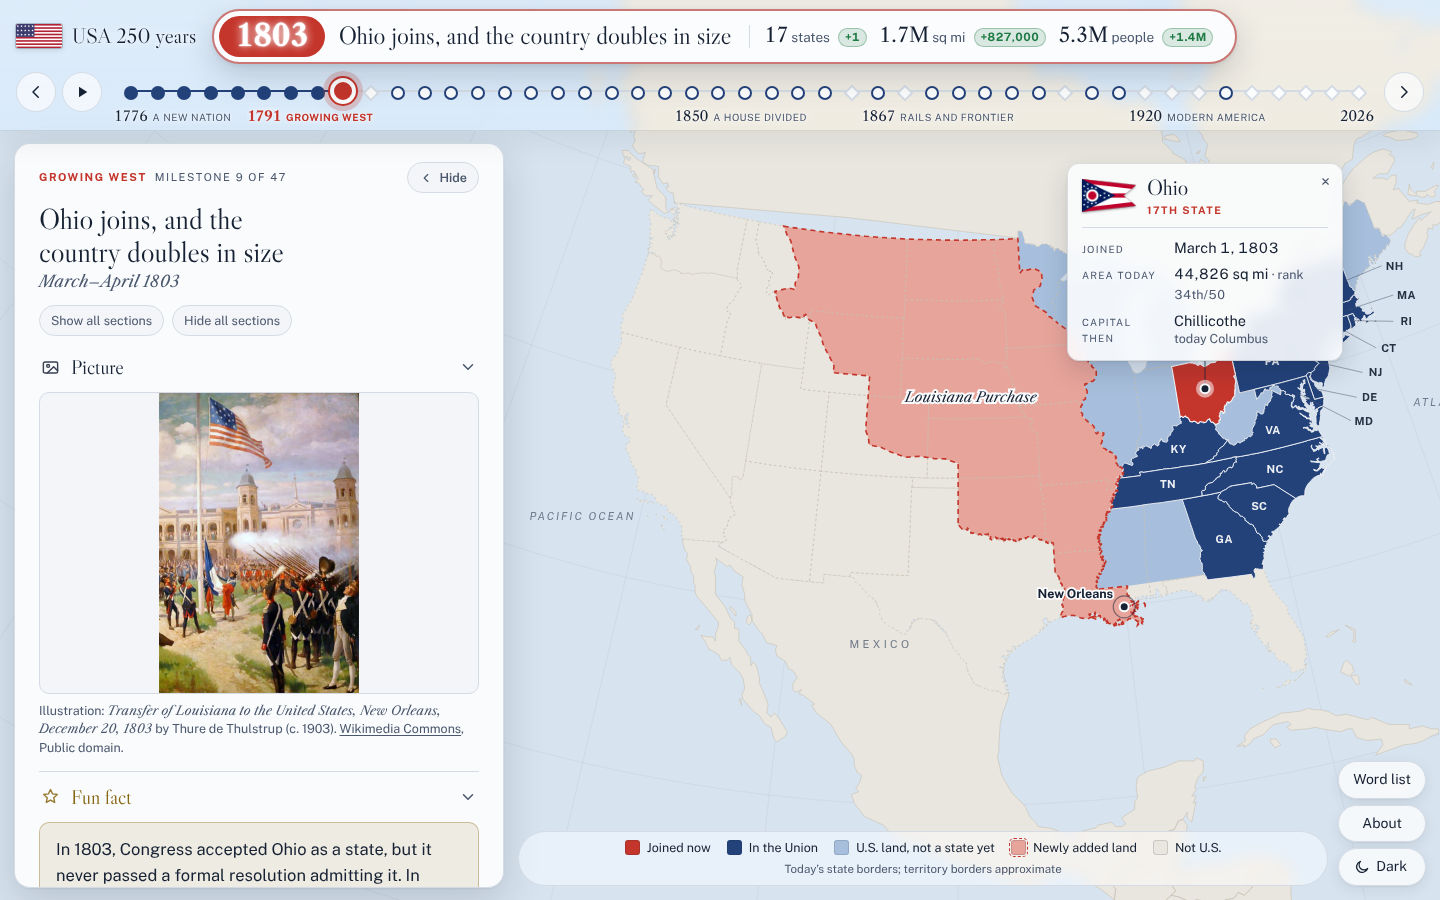
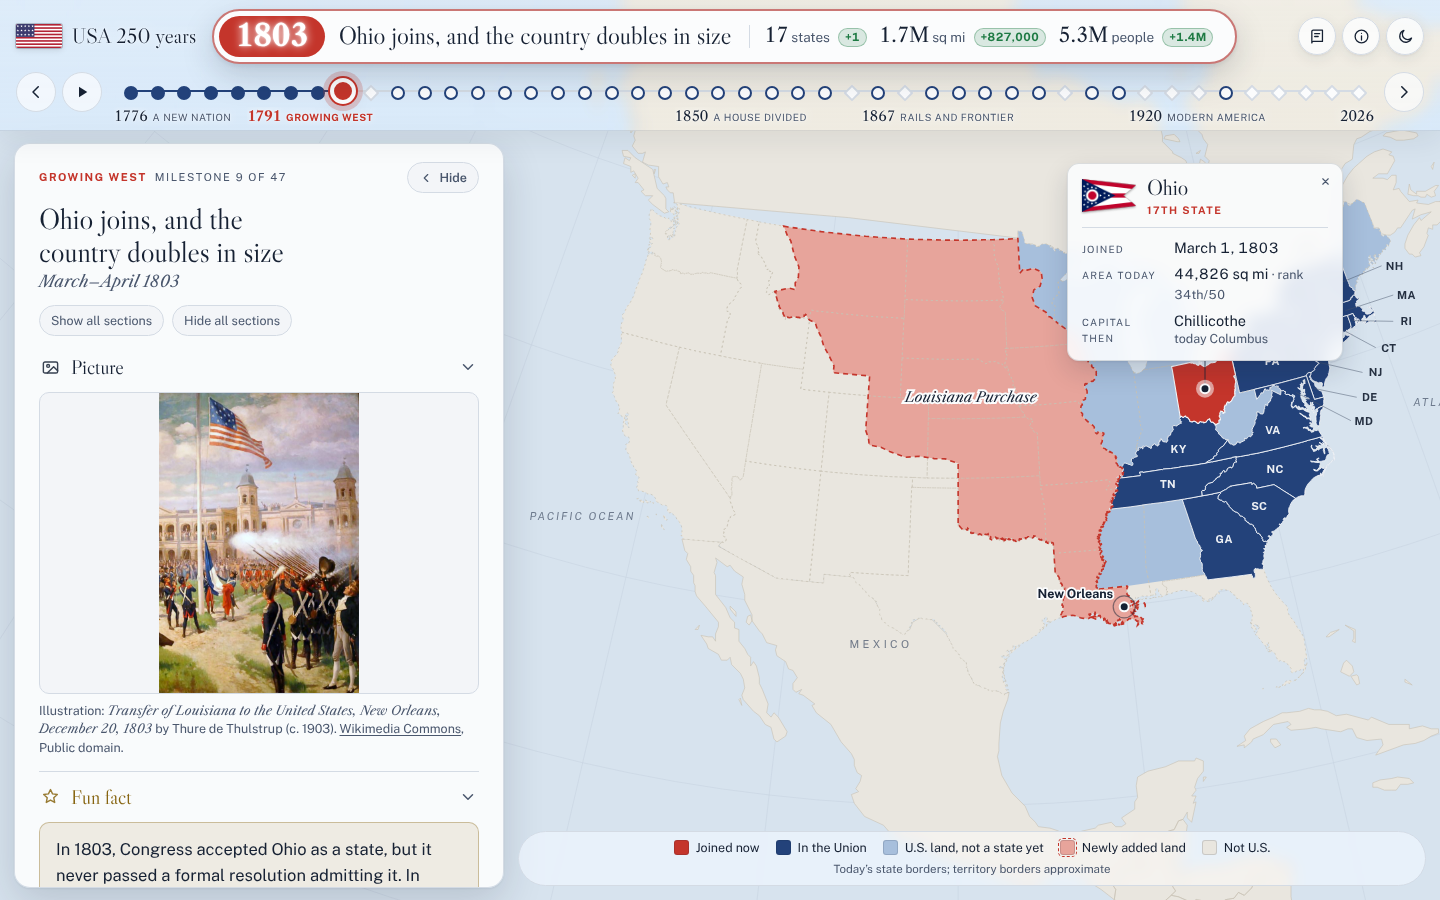
Tab title "USA 250 years"; tools move to the top right
- The browser tab now reads "USA 250 years".
- Word list, About and Light/Dark move from the bottom right of the
  map to the top right of the top bar, on the same row as the brand and
  the milestone heading. They are compact round icon buttons with
  tooltips (and screen-reader labels); their text labels return on
  screens 1680 px and wider. The map key keeps the bottom right.
- To keep the milestone heading whole: long titles may wrap to a
  second line instead of being cut off, the heading is a little smaller
  on mid-size screens, and below 1240 px it takes its own centered row
  under the brand and buttons. Checked all 47 milestones at 980-1440 px
  with no title cut off.
- On phones the three icon buttons sit at the right of the brand row.

Claude-Session: https://claude.ai/code/session_019zRrgJDS26ZMEPvqq3vbkH

Changed region(s): [[0.4375, 0.9333, 0.875, 0.9956], [0.9062, 0.84, 1.0, 0.9644]]

diff --git a/index.html b/index.html
@@ -4,7 +4,7 @@
 <meta charset="utf-8">
 <meta name="viewport" content="width=device-width, initial-scale=1, viewport-fit=cover">
 <style>:root{color-scheme:light;padding-top:env(safe-area-inset-top,0px);padding-bottom:env(safe-area-inset-bottom,0px)}body{margin:0;font-family:system-ui,sans-serif;font-size:14px}img{max-width:100%}[hidden]{display:none!important}</style>
-<title>From 13 to 50</title>
+<title>USA 250 years</title>
 <link rel="icon" href="favicon.svg" type="image/svg+xml">
 <link rel="icon" href="favicon-32.png" type="image/png" sizes="32x32">
 <link rel="apple-touch-icon" href="apple-touch-icon.png">
@@ -85,7 +85,7 @@ a { color: inherit; }
 
 /* ---------- head row: the brand on the left, the milestone heading centered ---------- */
 .headrow {
-  display: grid; grid-template-columns: minmax(max-content, 1fr) minmax(0, max-content) minmax(0, 1fr);
+  display: grid; grid-template-columns: minmax(max-content, 1fr) minmax(0, max-content) minmax(max-content, 1fr);
   align-items: center; gap: 16px; margin-bottom: 8px;
 }
 .brand { display: flex; align-items: center; gap: 10px; justify-self: start; }
@@ -118,17 +118,41 @@ a { color: inherit; }
 }
 @keyframes deltain { from { opacity: 0; transform: translateY(4px); } to { opacity: 1; transform: none; } }
 
-/* ---------- bottom right of the map: key and tools ---------- */
+/* ---------- bottom right of the map: the key ---------- */
 .map-foot {
   position: absolute; z-index: 6; right: max(14px, env(safe-area-inset-right, 0px)); bottom: calc(14px + env(safe-area-inset-bottom, 0px));
   max-width: calc(100% - min(490px, 37vw) - 42px);
   display: flex; align-items: flex-end; justify-content: flex-end; gap: 10px;
 }
 .map-foot .legend { flex: 0 1 auto; min-width: 0; }
-.tools { display: flex; flex-direction: column; align-items: stretch; gap: 6px; flex: none; }
-.tools .btn-quiet { display: inline-flex; align-items: center; justify-content: center; gap: 6px; }
+/* top right: word list, about, light/dark */
+.tools { display: flex; gap: 6px; justify-self: end; }
+.tools .btn-quiet { display: inline-flex; align-items: center; justify-content: center; gap: 6px; text-shadow: none; }
+.tools .btn-quiet svg { width: 17px; height: 17px; flex: none; fill: none; stroke: currentColor; stroke-width: 1.8; stroke-linecap: round; stroke-linejoin: round; }
+/* compact round icon buttons, so the milestone heading keeps its room; labels return on very wide screens */
+.tools .btn-quiet { width: 38px; height: 38px; padding: 0; }
+.tools .bl { display: none; }
+@media (min-width: 1680px) {
+  .tools .btn-quiet { width: auto; height: auto; padding: 7px 13px; }
+  .tools .bl { display: inline; }
+}
+/* a little smaller heading on mid-size screens */
+/* narrower desktops: the heading takes its own centered row under the brand and buttons */
+@media (max-width: 1240px) and (min-width: 961px) {
+  .headrow { grid-template-columns: minmax(0, 1fr) auto; grid-template-areas: "brand tools" "cap cap"; row-gap: 6px; }
+  .headrow .brand { grid-area: brand; }
+  .headrow .tools { grid-area: tools; }
+  .headrow .tl-cap { grid-area: cap; }
+}
+@media (max-width: 1320px) and (min-width: 961px) {
+  .cap-yr { font-size: 26px; }
+  .cap-t { font-size: 20px; }
+  .cap-stats { gap: 10px; }
+  .cap-stats .cs b.n { font-size: 18px; }
+  .brand h1 { font-size: 19px; }
+}
 .btn-quiet {
-  border: 1px solid var(--rule); border-radius: 999px; padding: 7px 14px; font-size: 14px; cursor: pointer; color: var(--ink);
+  border: 1px solid var(--rule); border-radius: 999px; padding: 6px 12px; font-size: 13.5px; cursor: pointer; color: var(--ink);
   background: color-mix(in srgb, var(--sheet) 82%, transparent); -webkit-backdrop-filter: blur(7px); backdrop-filter: blur(7px);
   box-shadow: 0 1px 2px rgb(22 33 51 / .06), 0 4px 14px rgb(22 33 51 / .08);
 }
@@ -398,13 +422,16 @@ ul.why li::before { content: ""; position: absolute; left: 4px; top: .62em; widt
 .tl-cap {
   position: relative; z-index: 1; max-width: 100%;
   display: inline-flex; align-items: center; gap: 14px; padding: 5px 22px 5px 5px; justify-self: center; min-width: 0;
-  background: var(--sheet); border: 2px solid color-mix(in srgb, var(--new) 60%, var(--rule)); border-radius: 999px;
+  background: var(--sheet); border: 2px solid color-mix(in srgb, var(--new) 60%, var(--rule)); border-radius: 32px;
   box-shadow: 0 2px 4px rgb(22 33 51 / .08), 0 12px 32px rgb(22 33 51 / .18);
   white-space: nowrap;
 }
 
 .cap-yr { flex: none; padding: 4px 16px 5px; border-radius: 999px; background: var(--new); color: #fff; font: 700 30px/1.05 var(--f-serif); letter-spacing: .01em; font-variant-numeric: lining-nums tabular-nums; }
-.cap-t { min-width: 0; overflow: hidden; text-overflow: ellipsis; font: 400 25px/1.2 var(--f-display); color: var(--ink); }
+.cap-t {
+  min-width: 0; font: 400 25px/1.15 var(--f-display); color: var(--ink); white-space: normal; text-wrap: balance;
+  display: -webkit-box; -webkit-box-orient: vertical; -webkit-line-clamp: 2; overflow: hidden;
+}
 .cap-stats { flex: none; display: flex; align-items: center; gap: 12px; margin-left: 4px; padding-left: 14px; border-left: 1px solid var(--rule); font-size: 13.5px; color: var(--ink-2); }
 .cap-stats .cs { white-space: nowrap; }
 .cap-stats .cs b.n { font: 400 20px/1 var(--f-serif); color: var(--ink); font-variant-numeric: lining-nums tabular-nums; margin-right: 3px; }
@@ -433,10 +460,11 @@ ul.why li::before { content: ""; position: absolute; left: 4px; top: .62em; widt
   .stage { position: static; order: 2; }
   .mapwrap { height: auto; }
   .map-foot { order: 3; position: static; max-width: none; display: block; }
-  .tools { flex-direction: row; padding: 10px 16px 12px; background: var(--sheet); border-bottom: 1px solid var(--rule); }
-  .btn-quiet { backdrop-filter: none; box-shadow: none; background: var(--paper); }
-  .headrow { grid-template-columns: minmax(0, 1fr); gap: 8px; }
-  .headrow > .spacer { display: none; }
+  .headrow { grid-template-columns: minmax(0, 1fr) auto; grid-template-areas: "brand tools" "cap cap"; gap: 8px; }
+  .headrow .brand { grid-area: brand; }
+  .headrow .tools { grid-area: tools; }
+  .headrow .tl-cap { grid-area: cap; }
+  .tools .btn-quiet { box-shadow: none; }
   .brand h1 { font-size: 17px; }
   .flag { width: 40px; }
   .mapwrap { overflow: visible; display: flex; flex-direction: column; }
@@ -469,6 +497,7 @@ ul.why li::before { content: ""; position: absolute; left: 4px; top: .62em; widt
   #slider::-webkit-slider-thumb { width: 22px; height: 22px; margin-top: 2px; }
   .person .head { grid-template-columns: 72px minmax(0, 1fr); }
   .person .portrait { width: 72px; height: 88px; }
+  .tools .btn-quiet { width: 34px; height: 34px; }
   .sheet-panel dl { grid-template-columns: 1fr; gap: 2px 0; }
   .sheet-panel dd { margin-bottom: 10px; }
 }
@@ -490,7 +519,11 @@ ul.why li::before { content: ""; position: absolute; left: 4px; top: .62em; widt
         <h1>USA 250 years</h1>
       </div>
       <div class="tl-cap" id="tl-cap" aria-live="polite"><b class="cap-yr" id="yr">1776</b><span class="cap-t" id="cap-t"></span><span class="cap-stats" id="cap-stats"></span></div>
-      <span class="spacer" aria-hidden="true"></span>
+      <div class="tools">
+        <button class="btn-quiet" id="btn-words" type="button" aria-label="Word list" title="Word list"><svg viewBox="0 0 24 24" aria-hidden="true"><path d="M4 19.5V5a2 2 0 0 1 2-2h13v16H6a2 2 0 0 0-2 2z"/><path d="M8 8h7M8 12h5"/></svg><span class="bl">Word list</span></button>
+        <button class="btn-quiet" id="btn-about" type="button" aria-label="About" title="About this map"><svg viewBox="0 0 24 24" aria-hidden="true"><circle cx="12" cy="12" r="9"/><path d="M12 11v6M12 7.5h.01"/></svg><span class="bl">About</span></button>
+        <button class="btn-quiet theme-btn" id="btn-theme" type="button" aria-label="Switch color mode"></button>
+      </div>
     </div>
     <nav class="tl-row" aria-label="Timeline">
     <div class="tl-btns">
@@ -695,11 +728,6 @@ ul.why li::before { content: ""; position: absolute; left: 4px; top: .62em; widt
       <button type="button" class="story-show" id="story-show" hidden><svg viewBox="0 0 24 24" aria-hidden="true"><path d="M4 5.5A2.5 2.5 0 0 1 6.5 3H20v15H6.5A2.5 2.5 0 0 0 4 20.5z"/><path d="M4 20.5A2.5 2.5 0 0 0 6.5 23H20v-5"/></svg>Read the story</button>
       <div class="map-foot" id="map-foot">
         <div class="legend" id="legend" aria-label="Map key"></div>
-        <div class="tools">
-          <button class="btn-quiet" id="btn-words" type="button">Word list</button>
-          <button class="btn-quiet" id="btn-about" type="button">About</button>
-          <button class="btn-quiet theme-btn" id="btn-theme" type="button" aria-label="Switch color mode"></button>
-        </div>
       </div>
     </section>
   </main>
@@ -1147,7 +1175,6 @@ function placeEach(A, F) {
   const placed = [], dots = A.map(a => [a.ax, a.ay]);
   const pinBox = !pin.hasAttribute('hidden') ? pin.getBoundingClientRect() : null, base = svg.getBoundingClientRect();
   const pinR = pinBox ? { x: pinBox.left - base.left, y: pinBox.top - base.top, w: pinBox.width, h: pinBox.height } : null;
-  const tb = $('.tools').getBoundingClientRect(), toolsR = { x: tb.left - base.left - 8, y: tb.top - base.top - 8, w: tb.width + 16, h: tb.height + 16 };
   for (const a of A.slice().sort((p, q) => p.ay - q.ay)) {
     const { w, h, ax, ay } = a, cands = [];
     for (const G of [28, 64]) cands.push(
@@ -1160,7 +1187,6 @@ function placeEach(A, F) {
       placed.forEach(o => cost += overlap(r, o) * 60);
       dots.forEach(d => { if (inside(d, r, 10)) cost += 4000; });
       if (pinR) cost += overlap(r, pinR) * 8;
-      cost += overlap(r, toolsR) * 60;
       if (!best || cost < best.cost) best = { ...r, cost };
     });
     a.x = best.x; a.y = best.y; a.side = null;
@@ -1433,8 +1459,9 @@ const isDark = () => {
 };
 function paintThemeBtn() {
   const dark = isDark();
-  themeBtn.innerHTML = (dark ? ICON_SUN : ICON_MOON) + `<span>${dark ? 'Light' : 'Dark'}</span>`;
+  themeBtn.innerHTML = (dark ? ICON_SUN : ICON_MOON) + `<span class="bl">${dark ? 'Light' : 'Dark'}</span>`;
   themeBtn.setAttribute('aria-label', dark ? 'Switch to light mode' : 'Switch to dark mode');
+  themeBtn.title = dark ? 'Switch to light mode' : 'Switch to dark mode';
 }
 themeBtn.addEventListener('click', () => {
   const next = isDark() ? 'light' : 'dark';

diff --git a/build/app.html b/build/app.html
@@ -1,4 +1,4 @@
-<title>From 13 to 50</title>
+<title>USA 250 years</title>
 <link rel="icon" href="favicon.svg" type="image/svg+xml">
 <link rel="icon" href="favicon-32.png" type="image/png" sizes="32x32">
 <link rel="apple-touch-icon" href="apple-touch-icon.png">
@@ -79,7 +79,7 @@ a { color: inherit; }
 
 /* ---------- head row: the brand on the left, the milestone heading centered ---------- */
 .headrow {
-  display: grid; grid-template-columns: minmax(max-content, 1fr) minmax(0, max-content) minmax(0, 1fr);
+  display: grid; grid-template-columns: minmax(max-content, 1fr) minmax(0, max-content) minmax(max-content, 1fr);
   align-items: center; gap: 16px; margin-bottom: 8px;
 }
 .brand { display: flex; align-items: center; gap: 10px; justify-self: start; }
@@ -112,17 +112,41 @@ a { color: inherit; }
 }
 @keyframes deltain { from { opacity: 0; transform: translateY(4px); } to { opacity: 1; transform: none; } }
 
-/* ---------- bottom right of the map: key and tools ---------- */
+/* ---------- bottom right of the map: the key ---------- */
 .map-foot {
   position: absolute; z-index: 6; right: max(14px, env(safe-area-inset-right, 0px)); bottom: calc(14px + env(safe-area-inset-bottom, 0px));
   max-width: calc(100% - min(490px, 37vw) - 42px);
   display: flex; align-items: flex-end; justify-content: flex-end; gap: 10px;
 }
 .map-foot .legend { flex: 0 1 auto; min-width: 0; }
-.tools { display: flex; flex-direction: column; align-items: stretch; gap: 6px; flex: none; }
-.tools .btn-quiet { display: inline-flex; align-items: center; justify-content: center; gap: 6px; }
+/* top right: word list, about, light/dark */
+.tools { display: flex; gap: 6px; justify-self: end; }
+.tools .btn-quiet { display: inline-flex; align-items: center; justify-content: center; gap: 6px; text-shadow: none; }
+.tools .btn-quiet svg { width: 17px; height: 17px; flex: none; fill: none; stroke: currentColor; stroke-width: 1.8; stroke-linecap: round; stroke-linejoin: round; }
+/* compact round icon buttons, so the milestone heading keeps its room; labels return on very wide screens */
+.tools .btn-quiet { width: 38px; height: 38px; padding: 0; }
+.tools .bl { display: none; }
+@media (min-width: 1680px) {
+  .tools .btn-quiet { width: auto; height: auto; padding: 7px 13px; }
+  .tools .bl { display: inline; }
+}
+/* a little smaller heading on mid-size screens */
+/* narrower desktops: the heading takes its own centered row under the brand and buttons */
+@media (max-width: 1240px) and (min-width: 961px) {
+  .headrow { grid-template-columns: minmax(0, 1fr) auto; grid-template-areas: "brand tools" "cap cap"; row-gap: 6px; }
+  .headrow .brand { grid-area: brand; }
+  .headrow .tools { grid-area: tools; }
+  .headrow .tl-cap { grid-area: cap; }
+}
+@media (max-width: 1320px) and (min-width: 961px) {
+  .cap-yr { font-size: 26px; }
+  .cap-t { font-size: 20px; }
+  .cap-stats { gap: 10px; }
+  .cap-stats .cs b.n { font-size: 18px; }
+  .brand h1 { font-size: 19px; }
+}
 .btn-quiet {
-  border: 1px solid var(--rule); border-radius: 999px; padding: 7px 14px; font-size: 14px; cursor: pointer; color: var(--ink);
+  border: 1px solid var(--rule); border-radius: 999px; padding: 6px 12px; font-size: 13.5px; cursor: pointer; color: var(--ink);
   background: color-mix(in srgb, var(--sheet) 82%, transparent); -webkit-backdrop-filter: blur(7px); backdrop-filter: blur(7px);
   box-shadow: 0 1px 2px rgb(22 33 51 / .06), 0 4px 14px rgb(22 33 51 / .08);
 }
@@ -392,13 +416,16 @@ ul.why li::before { content: ""; position: absolute; left: 4px; top: .62em; widt
 .tl-cap {
   position: relative; z-index: 1; max-width: 100%;
   display: inline-flex; align-items: center; gap: 14px; padding: 5px 22px 5px 5px; justify-self: center; min-width: 0;
-  background: var(--sheet); border: 2px solid color-mix(in srgb, var(--new) 60%, var(--rule)); border-radius: 999px;
+  background: var(--sheet); border: 2px solid color-mix(in srgb, var(--new) 60%, var(--rule)); border-radius: 32px;
   box-shadow: 0 2px 4px rgb(22 33 51 / .08), 0 12px 32px rgb(22 33 51 / .18);
   white-space: nowrap;
 }
 
 .cap-yr { flex: none; padding: 4px 16px 5px; border-radius: 999px; background: var(--new); color: #fff; font: 700 30px/1.05 var(--f-serif); letter-spacing: .01em; font-variant-numeric: lining-nums tabular-nums; }
-.cap-t { min-width: 0; overflow: hidden; text-overflow: ellipsis; font: 400 25px/1.2 var(--f-display); color: var(--ink); }
+.cap-t {
+  min-width: 0; font: 400 25px/1.15 var(--f-display); color: var(--ink); white-space: normal; text-wrap: balance;
+  display: -webkit-box; -webkit-box-orient: vertical; -webkit-line-clamp: 2; overflow: hidden;
+}
 .cap-stats { flex: none; display: flex; align-items: center; gap: 12px; margin-left: 4px; padding-left: 14px; border-left: 1px solid var(--rule); font-size: 13.5px; color: var(--ink-2); }
 .cap-stats .cs { white-space: nowrap; }
 .cap-stats .cs b.n { font: 400 20px/1 var(--f-serif); color: var(--ink); font-variant-numeric: lining-nums tabular-nums; margin-right: 3px; }
@@ -427,10 +454,11 @@ ul.why li::before { content: ""; position: absolute; left: 4px; top: .62em; widt
   .stage { position: static; order: 2; }
   .mapwrap { height: auto; }
   .map-foot { order: 3; position: static; max-width: none; display: block; }
-  .tools { flex-direction: row; padding: 10px 16px 12px; background: var(--sheet); border-bottom: 1px solid var(--rule); }
-  .btn-quiet { backdrop-filter: none; box-shadow: none; background: var(--paper); }
-  .headrow { grid-template-columns: minmax(0, 1fr); gap: 8px; }
-  .headrow > .spacer { display: none; }
+  .headrow { grid-template-columns: minmax(0, 1fr) auto; grid-template-areas: "brand tools" "cap cap"; gap: 8px; }
+  .headrow .brand { grid-area: brand; }
+  .headrow .tools { grid-area: tools; }
+  .headrow .tl-cap { grid-area: cap; }
+  .tools .btn-quiet { box-shadow: none; }
   .brand h1 { font-size: 17px; }
   .flag { width: 40px; }
   .mapwrap { overflow: visible; display: flex; flex-direction: column; }
@@ -463,6 +491,7 @@ ul.why li::before { content: ""; position: absolute; left: 4px; top: .62em; widt
   #slider::-webkit-slider-thumb { width: 22px; height: 22px; margin-top: 2px; }
   .person .head { grid-template-columns: 72px minmax(0, 1fr); }
   .person .portrait { width: 72px; height: 88px; }
+  .tools .btn-quiet { width: 34px; height: 34px; }
   .sheet-panel dl { grid-template-columns: 1fr; gap: 2px 0; }
   .sheet-panel dd { margin-bottom: 10px; }
 }
@@ -483,7 +512,11 @@ ul.why li::before { content: ""; position: absolute; left: 4px; top: .62em; widt
         <h1>USA 250 years</h1>
       </div>
       <div class="tl-cap" id="tl-cap" aria-live="polite"><b class="cap-yr" id="yr">1776</b><span class="cap-t" id="cap-t"></span><span class="cap-stats" id="cap-stats"></span></div>
-      <span class="spacer" aria-hidden="true"></span>
+      <div class="tools">
+        <button class="btn-quiet" id="btn-words" type="button" aria-label="Word list" title="Word list"><svg viewBox="0 0 24 24" aria-hidden="true"><path d="M4 19.5V5a2 2 0 0 1 2-2h13v16H6a2 2 0 0 0-2 2z"/><path d="M8 8h7M8 12h5"/></svg><span class="bl">Word list</span></button>
+        <button class="btn-quiet" id="btn-about" type="button" aria-label="About" title="About this map"><svg viewBox="0 0 24 24" aria-hidden="true"><circle cx="12" cy="12" r="9"/><path d="M12 11v6M12 7.5h.01"/></svg><span class="bl">About</span></button>
+        <button class="btn-quiet theme-btn" id="btn-theme" type="button" aria-label="Switch color mode"></button>
+      </div>
     </div>
     <nav class="tl-row" aria-label="Timeline">
     <div class="tl-btns">
@@ -523,11 +556,6 @@ ul.why li::before { content: ""; position: absolute; left: 4px; top: .62em; widt
       <button type="button" class="story-show" id="story-show" hidden><svg viewBox="0 0 24 24" aria-hidden="true"><path d="M4 5.5A2.5 2.5 0 0 1 6.5 3H20v15H6.5A2.5 2.5 0 0 0 4 20.5z"/><path d="M4 20.5A2.5 2.5 0 0 0 6.5 23H20v-5"/></svg>Read the story</button>
       <div class="map-foot" id="map-foot">
         <div class="legend" id="legend" aria-label="Map key"></div>
-        <div class="tools">
-          <button class="btn-quiet" id="btn-words" type="button">Word list</button>
-          <button class="btn-quiet" id="btn-about" type="button">About</button>
-          <button class="btn-quiet theme-btn" id="btn-theme" type="button" aria-label="Switch color mode"></button>
-        </div>
       </div>
     </section>
   </main>
@@ -975,7 +1003,6 @@ function placeEach(A, F) {
   const placed = [], dots = A.map(a => [a.ax, a.ay]);
   const pinBox = !pin.hasAttribute('hidden') ? pin.getBoundingClientRect() : null, base = svg.getBoundingClientRect();
   const pinR = pinBox ? { x: pinBox.left - base.left, y: pinBox.top - base.top, w: pinBox.width, h: pinBox.height } : null;
-  const tb = $('.tools').getBoundingClientRect(), toolsR = { x: tb.left - base.left - 8, y: tb.top - base.top - 8, w: tb.width + 16, h: tb.height + 16 };
   for (const a of A.slice().sort((p, q) => p.ay - q.ay)) {
     const { w, h, ax, ay } = a, cands = [];
     for (const G of [28, 64]) cands.push(
@@ -988,7 +1015,6 @@ function placeEach(A, F) {
       placed.forEach(o => cost += overlap(r, o) * 60);
       dots.forEach(d => { if (inside(d, r, 10)) cost += 4000; });
       if (pinR) cost += overlap(r, pinR) * 8;
-      cost += overlap(r, toolsR) * 60;
       if (!best || cost < best.cost) best = { ...r, cost };
     });
     a.x = best.x; a.y = best.y; a.side = null;
@@ -1261,8 +1287,9 @@ const isDark = () => {
 };
 function paintThemeBtn() {
   const dark = isDark();
-  themeBtn.innerHTML = (dark ? ICON_SUN : ICON_MOON) + `<span>${dark ? 'Light' : 'Dark'}</span>`;
+  themeBtn.innerHTML = (dark ? ICON_SUN : ICON_MOON) + `<span class="bl">${dark ? 'Light' : 'Dark'}</span>`;
   themeBtn.setAttribute('aria-label', dark ? 'Switch to light mode' : 'Switch to dark mode');
+  themeBtn.title = dark ? 'Switch to light mode' : 'Switch to dark mode';
 }
 themeBtn.addEventListener('click', () => {
   const next = isDark() ? 'light' : 'dark';

diff --git a/README.md b/README.md
@@ -22,9 +22,9 @@ It is written for a general audience and for people learning English. Each miles
 - **A fun fact for every milestone,** shown just below the picture, to make each moment easy to remember. For example: the Wright brothers tossed a coin to decide who would fly first.
 - **One key person per milestone,** tagged by field: politics, economy or science.
 - **Written for English learners.** Sentences are short and plain. 41 harder words, such as *ratify*, *annex* and *suffrage*, show a simple meaning when tapped. A word list collects them all.
-- **A timeline slider across the top**, with previous/next buttons, autoplay and keyboard navigation (← →). Above it, a large heading, centered on the page, shows the milestone's year, its one-line title, and the number of states, land area and people, with green “+” badges for how much each grew since the previous milestone (for example, +1 state, +827,000 sq mi, +1.4M people in 1803). The heading stays still as you move through the years, and the red handle on the timeline marks the current milestone. The top bar is see-through frosted glass over the full-screen map. Each era's name (A New Nation, Growing West, and so on) sits next to its first year under the timeline. Word list, About and the light/dark switch are stacked at the bottom right of the map, next to the map key.
+- **A timeline slider across the top**, with previous/next buttons, autoplay and keyboard navigation (← →). Above it, a large heading, centered on the page, shows the milestone's year, its one-line title, and the number of states, land area and people, with green “+” badges for how much each grew since the previous milestone (for example, +1 state, +827,000 sq mi, +1.4M people in 1803). The heading stays still as you move through the years, and the red handle on the timeline marks the current milestone. The top bar is see-through frosted glass over the full-screen map. Each era's name (A New Nation, Growing West, and so on) sits next to its first year under the timeline. Word list, About and the light/dark switch are round buttons at the top right (with their labels on very wide screens).
 - **Pictures with credits.** Illustrations and portraits come from Wikimedia Commons. Each one shows its title, artist, date, license and a link to its source page.
-- **Easy to run and share.** It is a single static page with no server and no build step needed to view it. It has light and dark modes, with a switch at the bottom right of the map, and it works on phones. Each milestone has its own link, for example `index.html#1803`.
+- **Easy to run and share.** It is a single static page with no server and no build step needed to view it. It has light and dark modes, with a switch at the top right, and it works on phones. Each milestone has its own link, for example `index.html#1803`.
 
 ## Getting started
 
